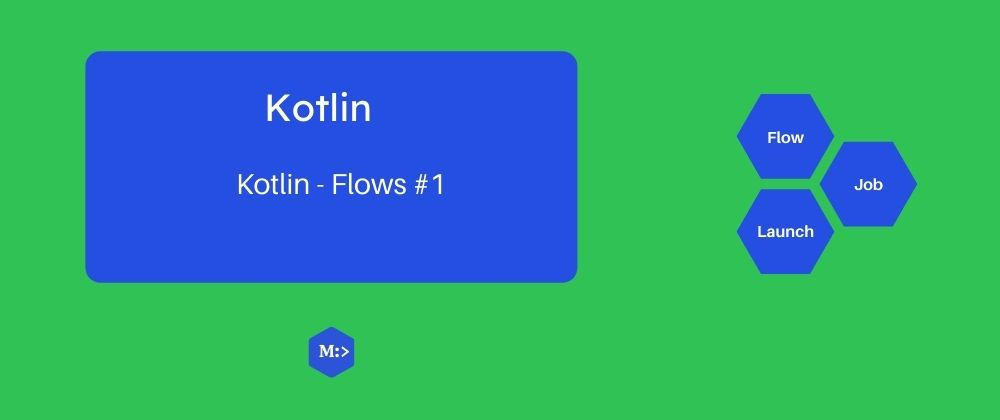
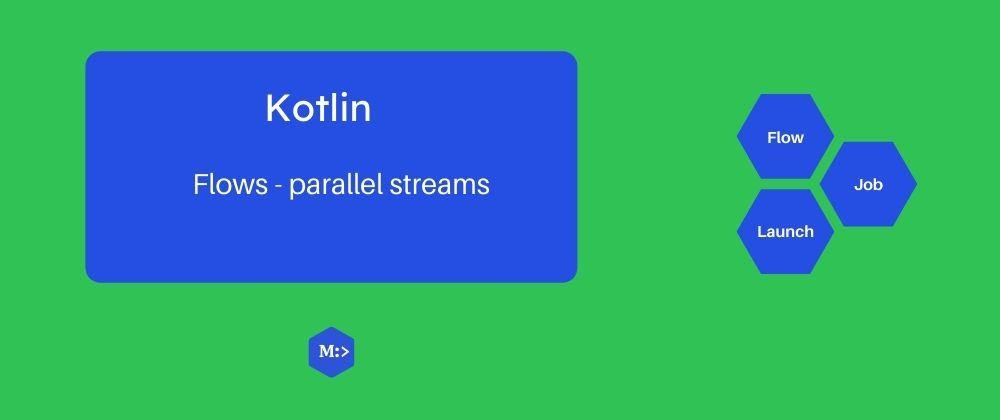
Kotlin flow - parallel streams

Changed region(s): [[0.186, 0.4024, 0.496, 0.4952]]

diff --git a/_posts/kotlin/2021-06-16-kotlin-flow1.md b/_posts/kotlin/2021-06-16-kotlin-flow1.md
@@ -14,8 +14,8 @@ no_break_layout: false
 categories: [Kotlin]
 
 ## Dev.to
-# cover_image: 
-# canonical_url: 
+cover_image: https://mahendranv.github.io/assets/covers/flow1.jpg
+canonical_url: https://mahendranv.github.io/posts/kotlin-flow1/
 # series:
 
 ---
@@ -147,3 +147,7 @@ launch {
 
 ## 🍬 Wrapup
 This article covered collecting two flows in parallel. Like any other coroutine, `launch` will start them in parallel (not necessarily in new thread) and cancelled individually. To collect the flows in serial manner, no need for any special care — just collecting them from same coroutine would do it.
+
+## Kotlin playground
+Play around it [here](https://pl.kotl.in/W1pGJ6kAj)
+<iframe width="100%" height="300pt" src="https://pl.kotl.in/GEmQrFk12?theme=darcula&from=6&to=19"></iframe>
